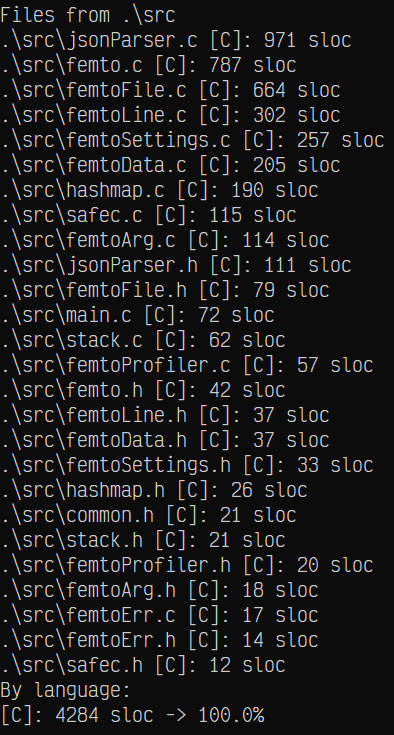
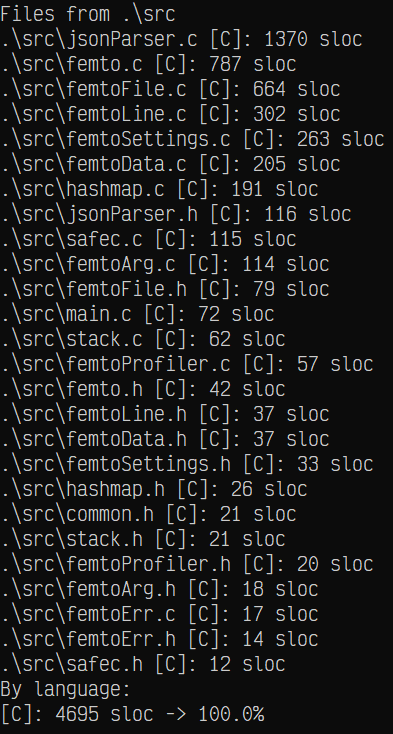
Update sloc, 4700 already

Changed region(s): [[0.0, 0.0, 0.9771, 0.9891], [0.7328, 0.4796, 0.9466, 0.5095], [0.458, 0.9591, 0.6718, 0.9891]]

diff --git a/README.md b/README.md
@@ -10,7 +10,7 @@ It is a bigger more feature-rich version of my other console text editor [atto](
 It is also written in vanilla C + Win32 Console API - it's designed to be used solely on Microsoft Windows.
 It has been compiled with MinGW GCC.
 
-Currently, my other tool [slocWin32](https://github.com/makuke1234/slocWin32) reports ~4300 source code lines (excluding whitespace & comments):
+Currently, my other tool [slocWin32](https://github.com/makuke1234/slocWin32) reports ~4700 source code lines (excluding whitespace & comments):
 
 ![SLOC](./images/sloc.png)
 
